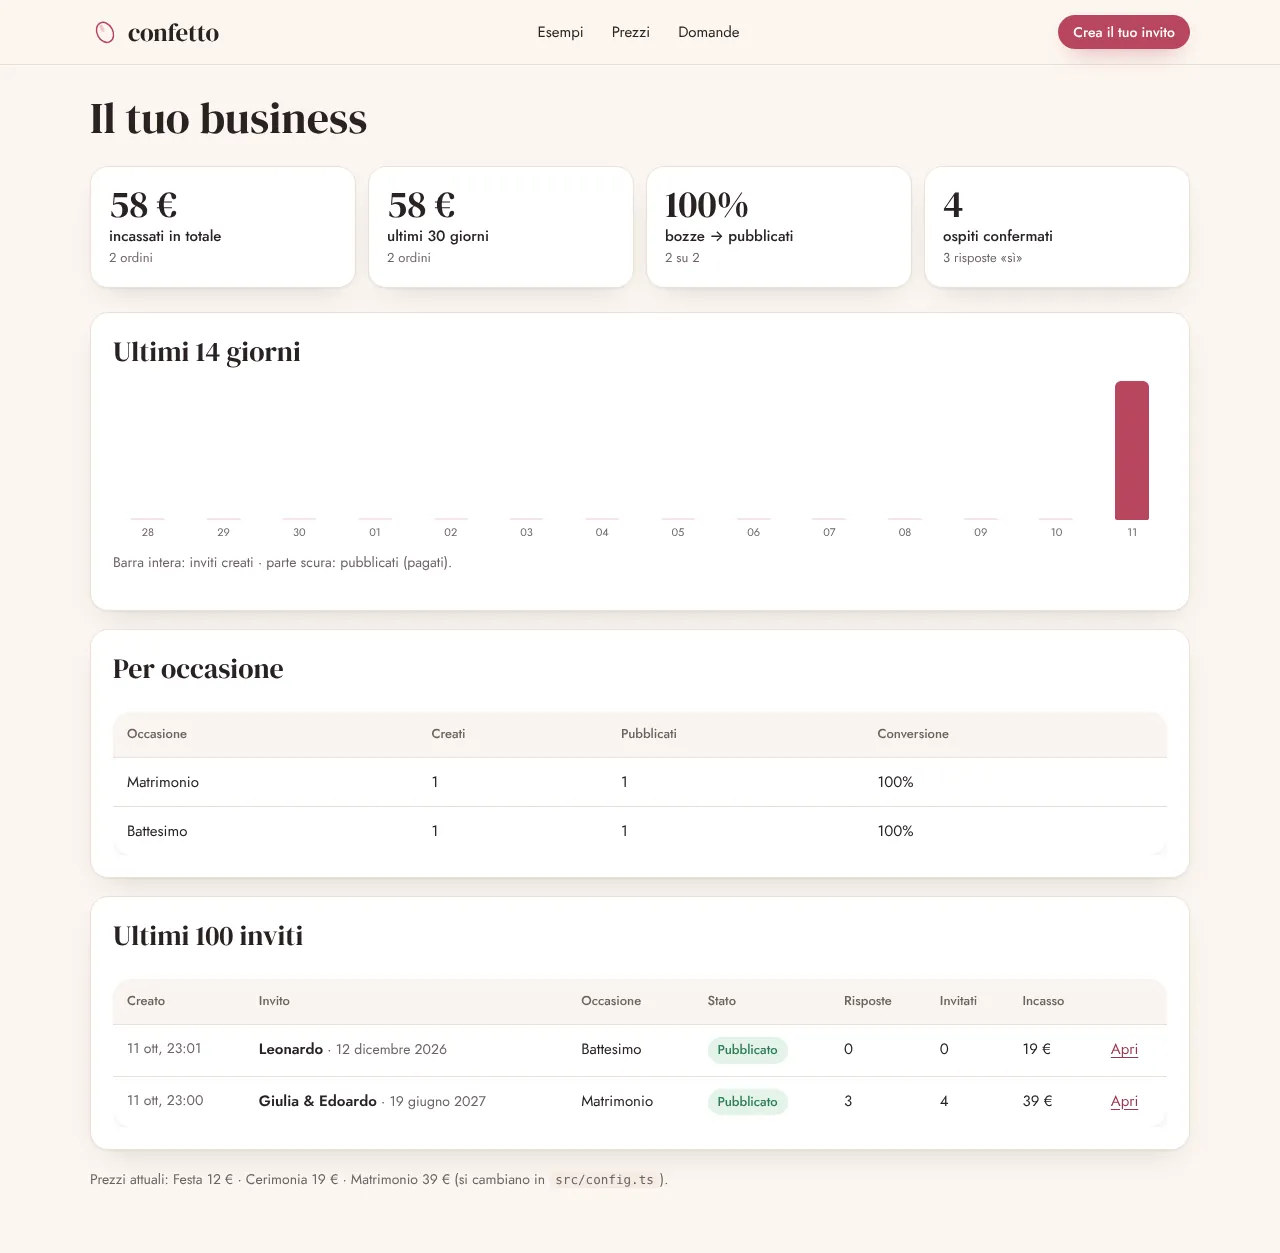
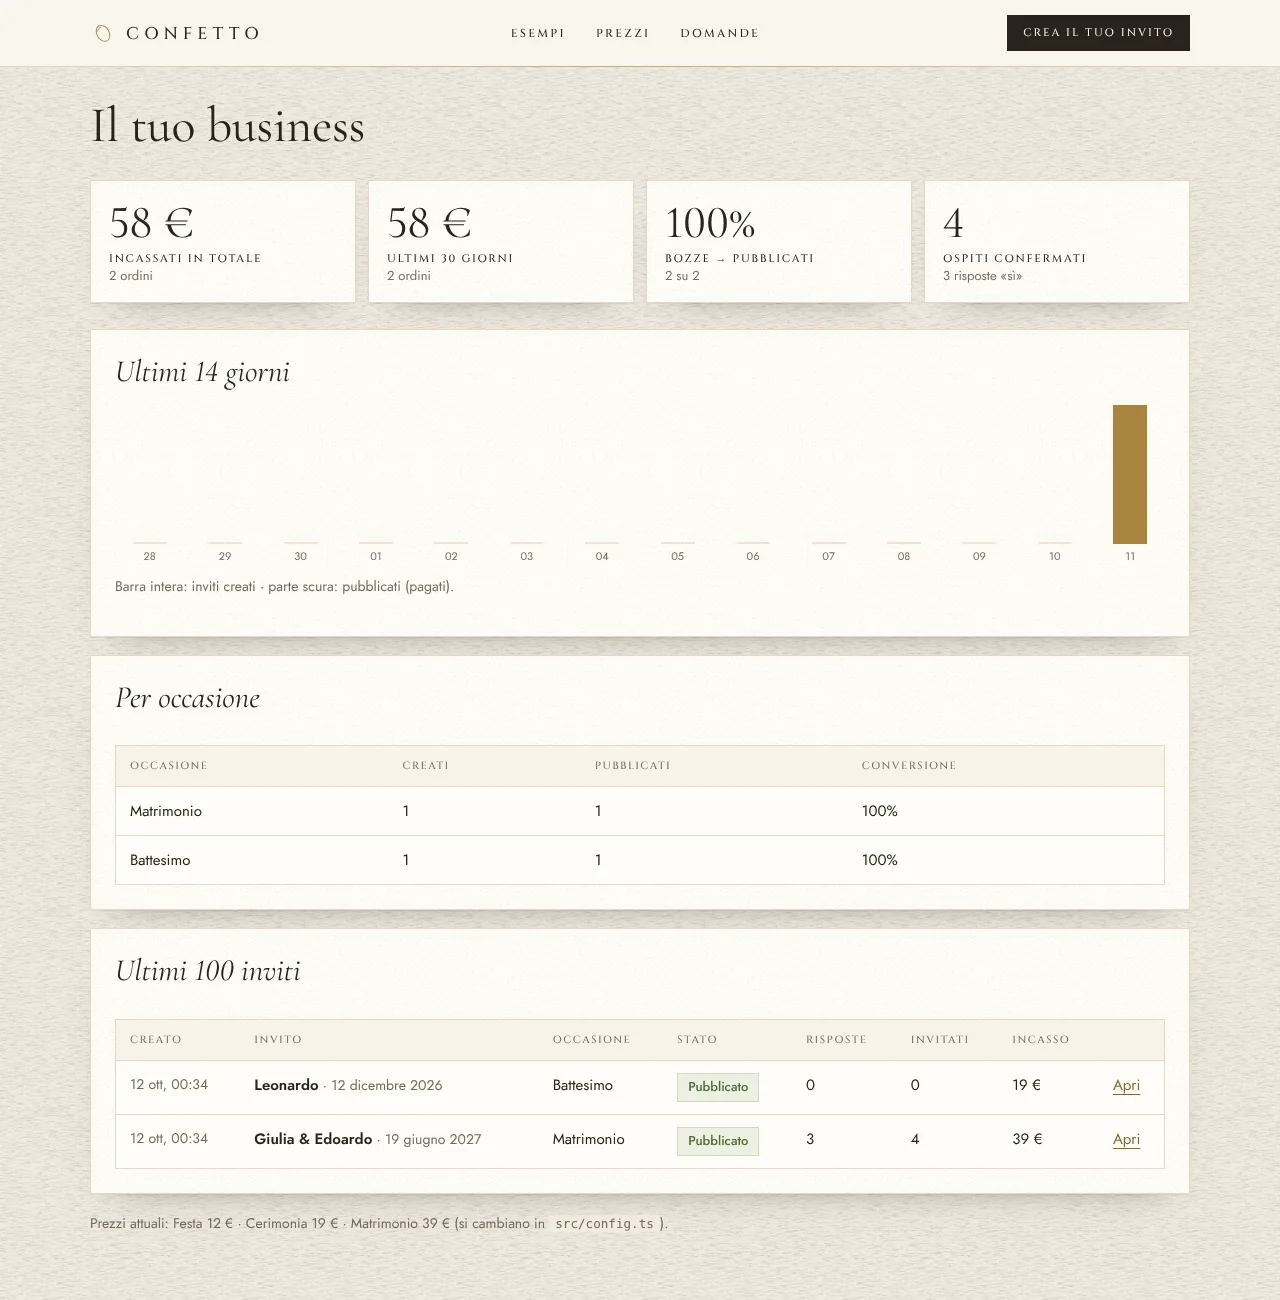
Aggiorna screenshot e nomi dei temi nella documentazione
Claude-Session: https://claude.ai/code/session_01NL7vTpQse9wAEX9ey2spV5

diff --git a/README.md b/README.md
@@ -82,7 +82,7 @@ Il cliente crea l'invito, lo vede completo e lo personalizza gratis. Finché non
 - saluto personalizzato con il nome dell'invitato
 - foto, conto alla rovescia, messaggio, programma con il tasto «Come arrivare» (Google Maps)
 - dress code, lista nozze, IBAN con il tasto «Copia»
-- conferma di presenza: ci sarò / non potrò esserci, adulti, bambini, allergie e menu, una domanda personalizzata (es. «Ti serve la navetta?») e un messaggio per gli sposi
+- conferma di presenza: «Parteciperò con piacere» / «Non potrò partecipare», adulti, bambini, allergie e menu, una domanda personalizzata (es. «Ti serve la navetta?») e un messaggio per gli sposi
 - risposta modificabile in qualsiasi momento
 - «Aggiungi al calendario» per iPhone, Android e Google Calendar
 - anteprima bella del link su WhatsApp, con foto oppure con l'immagine della busta
@@ -90,7 +90,7 @@ Il cliente crea l'invito, lo vede completo e lo personalizza gratis. Finché non
 **Per chi organizza:**
 
 - editor con anteprima dal vivo e salvataggio automatico
-- 9 stili: Ulivo, Avorio & Oro, Limoni di Amalfi, Notte stellata, Alloro, Cielo, Cipria, Grano, Coriandoli
+- 9 stili da cartoleria di lusso (carta di cotone, oro a caldo, acquerelli, sigillo in ceralacca): Avorio e oro, Ulivo, Amalfi, Mezzanotte, Alloro, Cielo, Cipria, Grano, Gala
 - frasi già pronte per ogni occasione, foto ridimensionata automaticamente
 - dashboard: persone confermate, adulti e bambini, chi non viene, dediche
 - **lista invitati con link personali**, anche incollando l'elenco intero: «Invia su WhatsApp», stato «aperto / non aperto / ha risposto», **promemoria** solo a chi manca
@@ -227,7 +227,9 @@ Testi pronti da copiare (post, messaggi ai partner, scheda Etsy, parole chiave) 
 src/
   index.tsx        tutte le rotte (sito, invito pubblico, area di gestione, webhook, admin, cron)
   config.ts        BRAND, PREZZI, occasioni, testi di esempio e frasi suggerite
-  themes.ts        i 9 stili e gli ornamenti SVG generati dal codice
+  themes.ts        i 9 stili: acquerelli, oro, sigilli e fodere delle buste generati dal codice
+  art.ts           strumenti di disegno (pennellate, foglie, acquerello, carta, ceralacca)
+  icons.ts         icone a tratto sottile per occasioni e interfaccia
   db.ts            accesso a D1 (inviti, invitati, risposte, ordini, rate limit, pulizia)
   model.ts         validazione dei dati dell'invito
   stripe.ts        Checkout, verifica sessione, firma del webhook

diff --git a/docs/MARKETING.md b/docs/MARKETING.md
@@ -79,7 +79,7 @@ Registra lo schermo del telefono (iPhone: Centro di Controllo → Registrazione 
 3. Frasi per inviti di battesimo (carosello, con i testi delle pagine `/frasi/...`)
 4. «3 errori nelle conferme di presenza che fanno impazzire il catering»
 5. Tutorial: «Come mandare un link diverso a ogni invitato»
-6. Il tema Limoni di Amalfi con un sottofondo estivo
+6. Il tema Amalfi (limoni ad acquerello) con un sottofondo estivo
 7. Laurea: la corona d'alloro che si anima («per la festa di laurea di tua sorella»)
 8. Il conto alla rovescia: «-100 giorni al sì»
 9. Recensione di un cliente vero, con il suo permesso
@@ -174,7 +174,7 @@ Possiamo darvi un codice sconto da girare alle famiglie che prenotano da voi?
 | Febbraio–Aprile | **Comunioni e cresime** (aprile–giugno): parrocchie, catechisti, gruppi di mamme |
 | Aprile–Luglio | Matrimoni autunnali, feste di laurea (sessioni estive) |
 | Settembre–Novembre | Matrimoni dell'anno dopo, 18 anni, feste di laurea (sessioni autunnali), battesimi |
-| Novembre–Dicembre | Feste di Natale e Capodanno (tema Notte stellata), cene aziendali |
+| Novembre–Dicembre | Feste di Natale e Capodanno (tema Mezzanotte), cene aziendali |
 
 Compleanni e battesimi vanno tutto l'anno.
 
